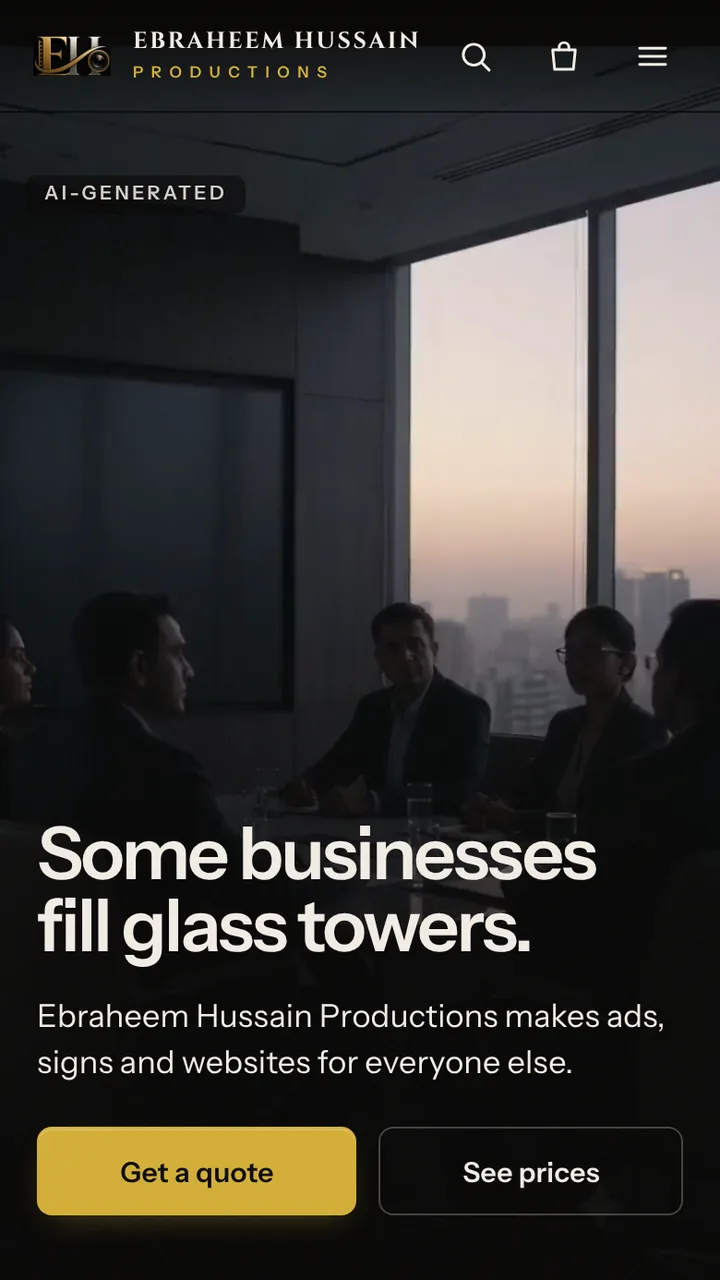
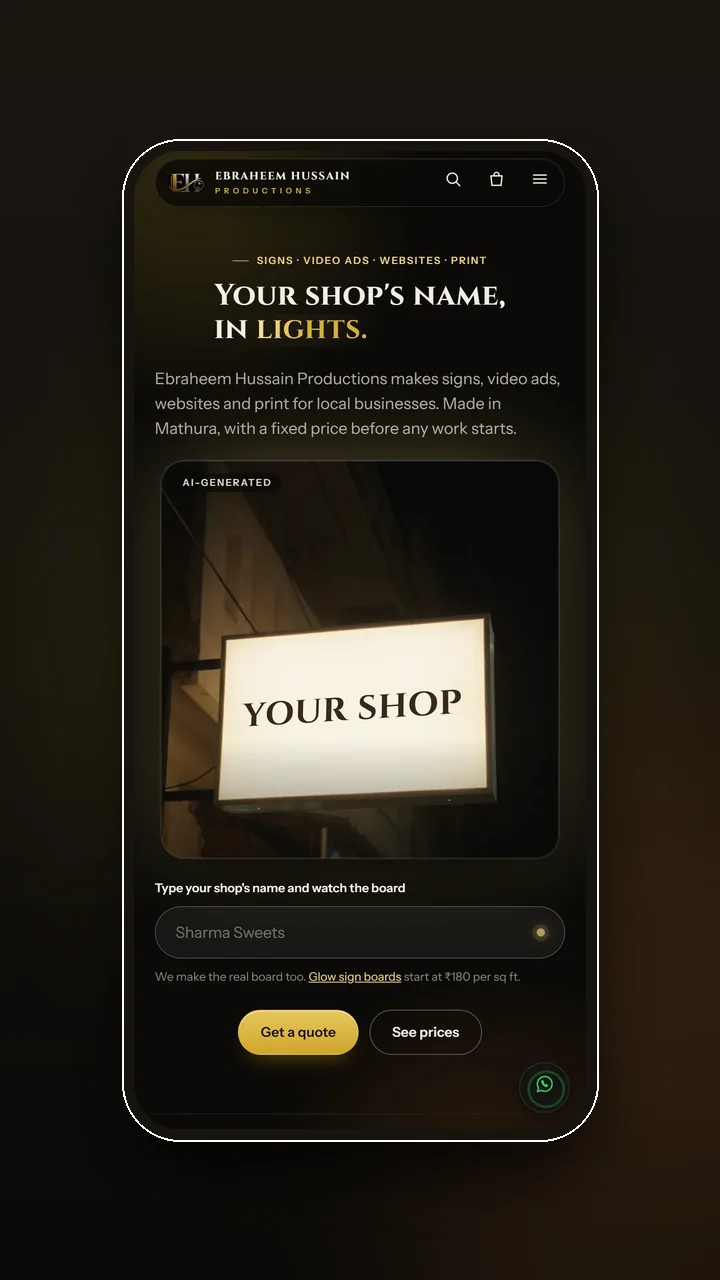
Websites tile: phone photo now shows the new design

diff --git a/index.html b/index.html
@@ -134,7 +134,7 @@
             <p class="svc__price" data-from="shop-signboards">From ₹50 per sq ft</p>
           </a>
           <a class="svc svc--c" href="catalog?cat=websites">
-            <span class="svc__frame"><img src="assets/story/rail-web.webp" alt="A website we built, on a phone screen" width="720" height="1280" loading="lazy"></span>
+            <span class="svc__frame"><img src="assets/story/rail-web.webp" alt="This website on a phone screen" width="720" height="1280" loading="lazy"></span>
             <span class="svc__go" data-icon="arrow"></span>
             <h3>Websites</h3>
             <p>Fast sites that bring in enquiries.</p>

diff --git a/tools/build.py b/tools/build.py
@@ -221,7 +221,7 @@ HOME = f'''  <main id="main">
             <p class="svc__price" data-from="shop-signboards">From ₹50 per sq ft</p>
           </a>
           <a class="svc svc--c" href="catalog?cat=websites">
-            <span class="svc__frame"><img src="assets/story/rail-web.webp" alt="A website we built, on a phone screen" width="720" height="1280" loading="lazy"></span>
+            <span class="svc__frame"><img src="assets/story/rail-web.webp" alt="This website on a phone screen" width="720" height="1280" loading="lazy"></span>
             <span class="svc__go" data-icon="arrow"></span>
             <h3>Websites</h3>
             <p>Fast sites that bring in enquiries.</p>
